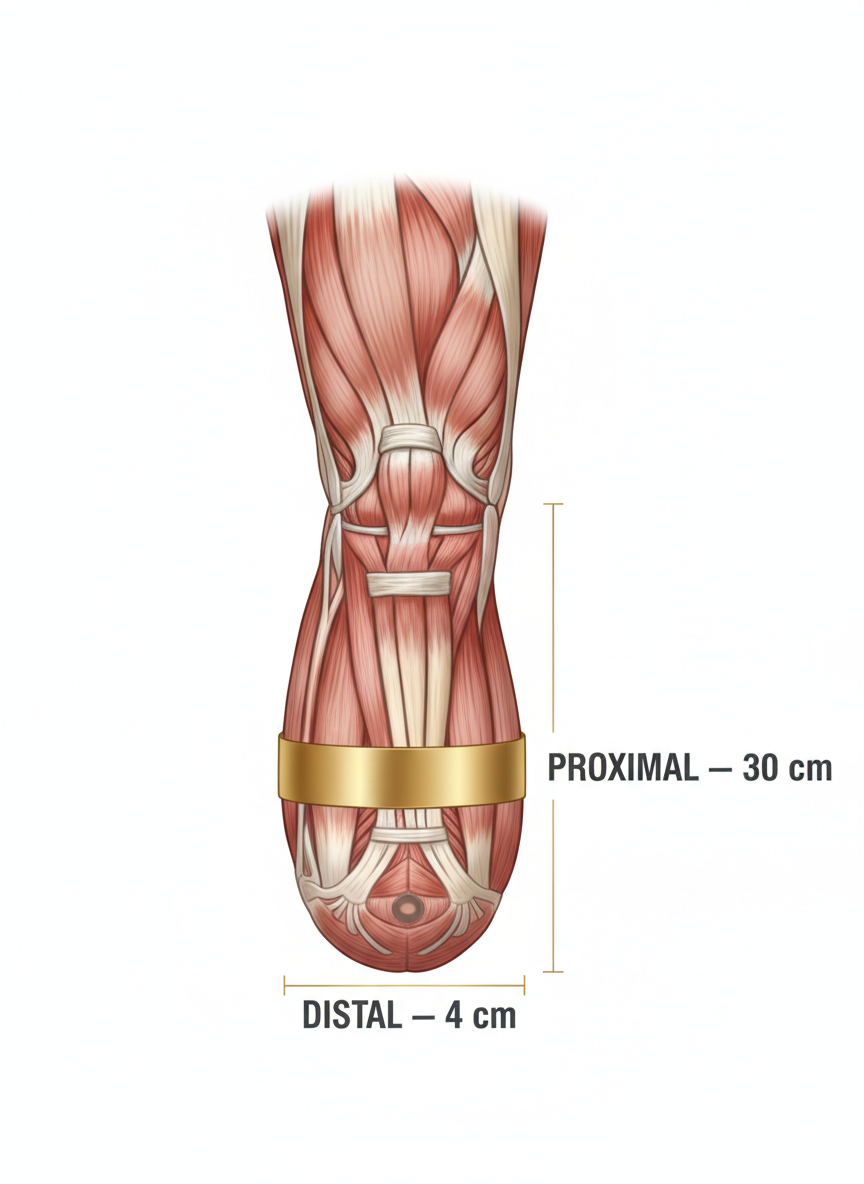
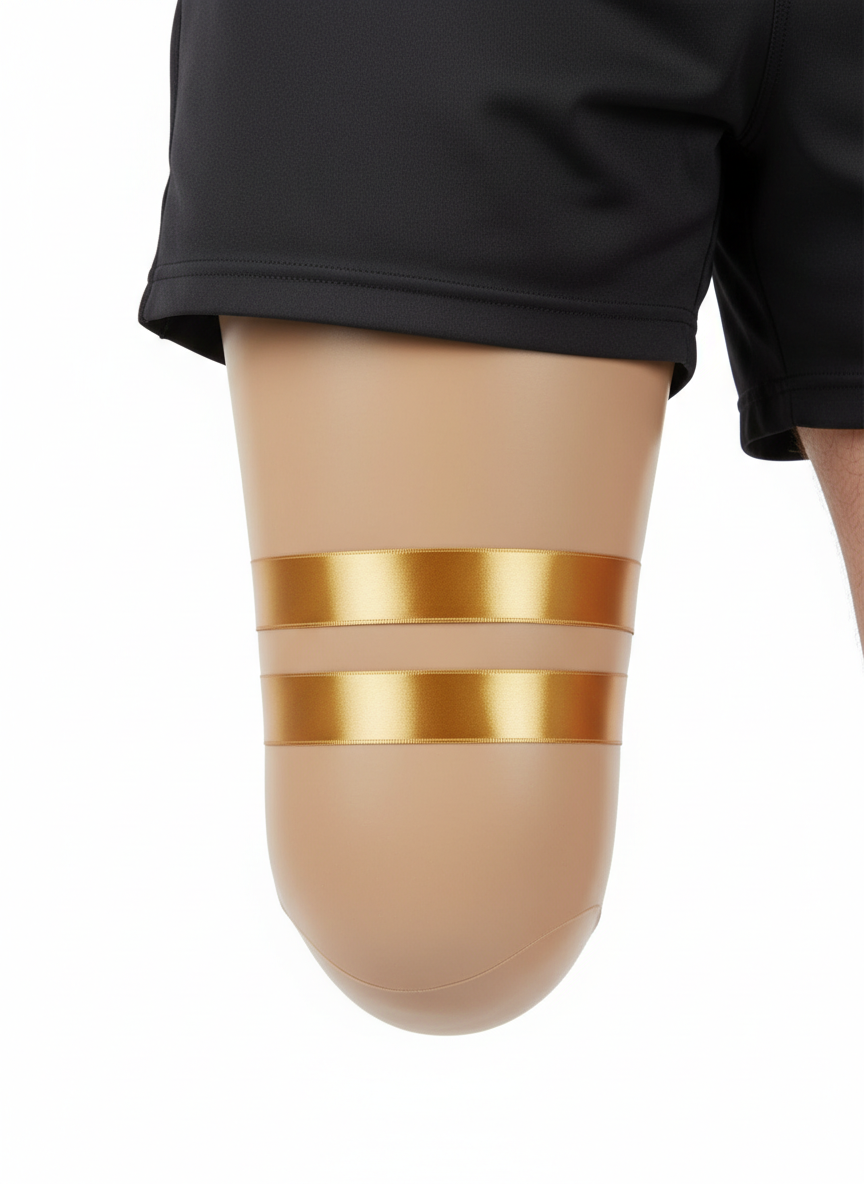
Redesign sizing guide: AI-generated images + integrated layout
Replace anatomical muscle illustrations with AI-generated realistic human
figures wearing prosthetic liners with gold measurement bands. Redesign
MeasurementHero to side-by-side integrated layout: steps on left with
vertical timeline, figure with callout labels on right. Mobile shows
figure first with callout legend, then steps below.

diff --git a/src/components/SizingGuide.jsx b/src/components/SizingGuide.jsx
@@ -115,9 +115,29 @@ function RecommendationResult({ recommendation }) {
   );
 }
 
-/* ── Measurement Hero (Image + Steps) ──────────────────────────── */
+/* ── Measurement Callout Label ─────────────────────────────────── */
+
+function CalloutLabel({ label, distance, position }) {
+  // position: percentage from top of image where the gold band sits
+  return (
+    <div
+      className="absolute right-0 flex items-center gap-2 translate-x-[calc(100%+8px)]"
+      style={{ top: `${position}%`, transform: `translateY(-50%) translateX(calc(100% + 8px))` }}
+    >
+      <div className="w-6 h-px bg-brand-gold" />
+      <div className="whitespace-nowrap">
+        <p className="text-xs font-bold uppercase tracking-widest text-brand-gold leading-none">{label}</p>
+        <p className="text-xs text-gray-400 mt-0.5">{distance}</p>
+      </div>
+    </div>
+  );
+}
+
+/* ── Measurement Hero (Integrated Diagram) ────────────────────── */
 
 function MeasurementHero({ chartData }) {
+  const isDual = chartData.measurementMethod === 'dual-circumference';
+
   const steps = [
     {
       number: 1,
@@ -132,11 +152,19 @@ function MeasurementHero({ chartData }) {
     {
       number: chartData.measurementPoints.length + 2,
       title: 'Enter Below',
-      desc: 'Type your measurements into the size finder to get your recommended size instantly.',
+      desc: 'Use the size finder to get your recommended size instantly.',
     },
   ];
 
-  const stepCols = steps.length <= 3 ? 'lg:grid-cols-3' : 'lg:grid-cols-2';
+  // Callout positions (% from top of image) for each measurement type
+  const callouts = isDual
+    ? [
+        { label: 'Proximal', distance: '30 cm from end', position: 35 },
+        { label: 'Distal', distance: '4 cm from end', position: 70 },
+      ]
+    : [
+        { label: 'Circumference', distance: '6 cm from end', position: 55 },
+      ];
 
   return (
     <FadeIn className="mb-12 md:mb-16">
@@ -144,31 +172,65 @@ function MeasurementHero({ chartData }) {
         How to Measure
       </h3>
 
-      {chartData.measurementImage && (
-        <div className="flex justify-center mb-10">
-          <div className="bg-brand-offwhite rounded-lg p-6 md:p-8 w-full max-w-sm">
-            <img
-              src={chartData.measurementImage}
-              alt={`${chartData.title} \u2014 where to measure`}
-              className="w-full h-auto"
-              loading="lazy"
-            />
-          </div>
-        </div>
-      )}
-
-      <div className={`grid grid-cols-1 sm:grid-cols-2 ${stepCols} gap-6`}>
-        {steps.map((step) => (
-          <div key={step.number} className="flex items-start gap-4">
-            <span className="w-8 h-8 rounded-full bg-black text-white flex items-center justify-center text-sm font-bold flex-shrink-0 mt-0.5">
-              {step.number}
-            </span>
-            <div>
-              <h4 className="text-sm font-bold mb-1">{step.title}</h4>
-              <p className="text-sm text-gray-500 leading-relaxed">{step.desc}</p>
+      <div className="grid grid-cols-1 lg:grid-cols-2 gap-8 lg:gap-12 items-start">
+        {/* Figure with callout labels — shows first on mobile */}
+        <div className="order-1 lg:order-2 flex justify-center">
+          <div className="relative">
+            {chartData.measurementImage && (
+              <div className="bg-brand-offwhite rounded-lg p-4 md:p-6">
+                <img
+                  src={chartData.measurementImage}
+                  alt={`${chartData.title} \u2014 where to measure`}
+                  className="w-full max-w-[280px] h-auto mx-auto"
+                  loading="lazy"
+                />
+              </div>
+            )}
+            {/* Callout labels — desktop only, positioned alongside image */}
+            <div className="hidden lg:block">
+              {callouts.map((callout) => (
+                <CalloutLabel
+                  key={callout.label}
+                  label={callout.label}
+                  distance={callout.distance}
+                  position={callout.position}
+                />
+              ))}
             </div>
           </div>
-        ))}
+        </div>
+
+        {/* Mobile callout labels */}
+        <div className="order-2 lg:hidden flex justify-center gap-6 -mt-4 mb-2">
+          {callouts.map((callout) => (
+            <div key={callout.label} className="flex items-center gap-2">
+              <div className="w-3 h-3 rounded-full bg-brand-gold flex-shrink-0" />
+              <div>
+                <p className="text-xs font-bold uppercase tracking-widest text-brand-gold leading-none">{callout.label}</p>
+                <p className="text-xs text-gray-400">{callout.distance}</p>
+              </div>
+            </div>
+          ))}
+        </div>
+
+        {/* Steps — shows second on mobile, left column on desktop */}
+        <div className="order-3 lg:order-1 space-y-5 lg:pt-4">
+          {steps.map((step, i) => (
+            <div key={step.number} className="flex items-start gap-4 relative">
+              {/* Vertical connecting line */}
+              {i < steps.length - 1 && (
+                <div className="absolute left-[15px] top-10 bottom-0 w-px bg-gray-200 -mb-5" style={{ height: 'calc(100% - 8px)' }} />
+              )}
+              <span className="relative z-10 w-8 h-8 rounded-full bg-brand-gold text-white flex items-center justify-center text-sm font-bold flex-shrink-0">
+                {step.number}
+              </span>
+              <div className="pb-1">
+                <h4 className="text-sm font-bold mb-1">{step.title}</h4>
+                <p className="text-sm text-gray-500 leading-relaxed">{step.desc}</p>
+              </div>
+            </div>
+          ))}
+        </div>
       </div>
     </FadeIn>
   );
